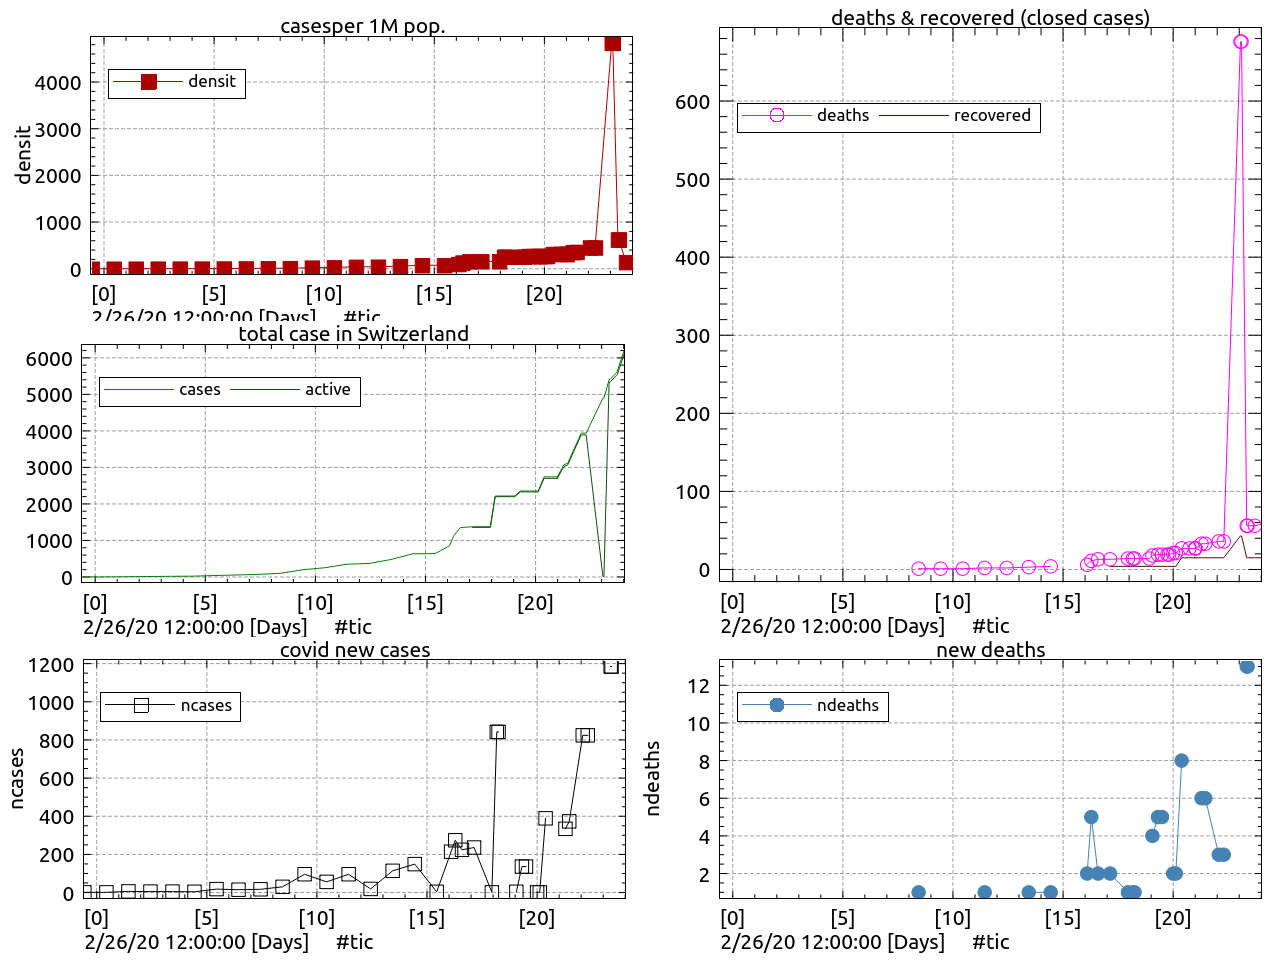
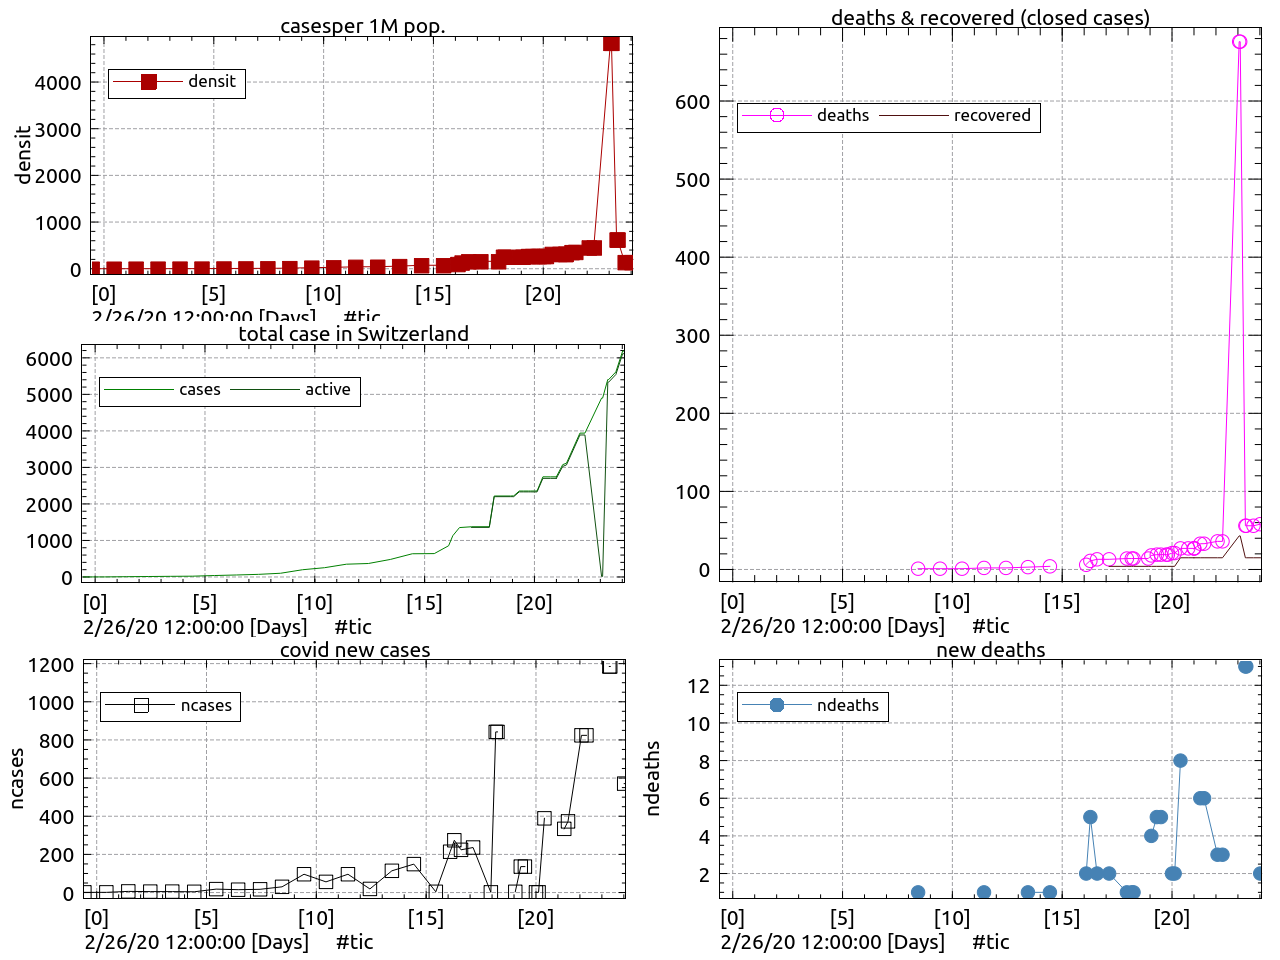
pandemy status on 03/21/20 14:52:34

diff --git a/README.md b/README.md
@@ -1,6 +1,6 @@
 # README: corona virus daily status in Switzerland ...
 
-## on 03/21/20 13:22:56 ([snapshot](https://ipfs.io/ipfs/QmY4pmA4H2abNWnWZpw9NNz1vS577dF9u4Ap2ZYt1Jh1GC))
+## on 03/21/20 14:52:34 ([snapshot](https://ipfs.io/ipfs/QmY4pmA4H2abNWnWZpw9NNz1vS577dF9u4Ap2ZYt1Jh1GC))
 
  141 715 cases per 1M pop,<br>
  6186 Total cases in Switzerland (6113 actives)
@@ -8,7 +8,7 @@
  58 deaths,
  15 recovered (resurected ?)
 
-last update : <https://ipfs.blockringtm.ml/ipfs/QmQdqpaRHXxFmCoXWeP6vw5L86pLGTYjm9z4d8x8VBqVCj/covid19.html>
+last update : <https://ipfs.blockringtm.ml/ipfs/QmQwsKfnH8khWvrsgYcAXAmwVwmRvVnH183yMXxFCJ91Xi/covid19.html>
 
 
 Every Sunday: 1:30pm 1:45pm Meditation & OM chanting ([#OMEKSAATH][OM]) CET https://www.facebook.com/events/138981234204300
@@ -37,8 +37,8 @@ sources:
   - <https://michel47.github.io/covid19>
   - <https://github.com/michel47/covid19>
   - <https://duckduckgo.com/?q=switzerland+progression+coronavirus>
-  - <https://gateway.ipfs.io/ipfs/QmZ49qk7Kug4i1umR2HFVwrHUnoX1xrdRKfG4PD4itKe98>
+  - <https://gateway.ipfs.io/ipfs/QmZJTqc58ouioEPYes9BWipPXPUS3p3fabT4asaVAMJaMM>
   - <https://gateway.ipfs.io/ipfs/QmY4pmA4H2abNWnWZpw9NNz1vS577dF9u4Ap2ZYt1Jh1GC>
-  - <https://gateway.ipfs.io/ipfs/QmQdqpaRHXxFmCoXWeP6vw5L86pLGTYjm9z4d8x8VBqVCj>
+  - <https://gateway.ipfs.io/ipfs/QmQwsKfnH8khWvrsgYcAXAmwVwmRvVnH183yMXxFCJ91Xi>
   
 

diff --git a/covid19.md b/covid19.md
@@ -7,6 +7,7 @@
  ![CH covid19](covid.png)
 
 
+- \[03/21/20]: 6113/6186cases [QmZJTqc58ouioEPYes9BWipPXPUS3p3fabT4asaVAMJaMM](https://cloudflare-ipfs.com/ipfs/QmY4pmA4H2abNWnWZpw9NNz1vS577dF9u4Ap2ZYt1Jh1GC) [data](/ipfs/QmSanADaYvsiRkvsdff5ZvP7J4qEZ8YUivWhkiGvubP73p/covid.yml),[csv](/ipfs/QmSanADaYvsiRkvsdff5ZvP7J4qEZ8YUivWhkiGvubP73p/covid.csv)
 - \[03/21/20]: 6113/6186cases [QmZ49qk7Kug4i1umR2HFVwrHUnoX1xrdRKfG4PD4itKe98](https://cloudflare-ipfs.com/ipfs/QmY4pmA4H2abNWnWZpw9NNz1vS577dF9u4Ap2ZYt1Jh1GC) [data](/ipfs/QmUrqmtZufQpZWBFJ1ub5XyoXP2FtihrqYTqheA5PsqXth/covid.yml),[csv](/ipfs/QmUrqmtZufQpZWBFJ1ub5XyoXP2FtihrqYTqheA5PsqXth/covid.csv)
 - \[03/21/20]: 5544/5615cases [QmXjbxLNFvsfxKrnwi979tMywauL7wwvmriiuEKDLn1mLy](https://cloudflare-ipfs.com/ipfs/QmY4pmA4H2abNWnWZpw9NNz1vS577dF9u4Ap2ZYt1Jh1GC) [data](/ipfs/QmTFhLQFbWdoWQrKY6fMpjjt8Tt2Dn8DFr8asMebbBXfL6/covid.yml),[csv](/ipfs/QmTFhLQFbWdoWQrKY6fMpjjt8Tt2Dn8DFr8asMebbBXfL6/covid.csv)
 - \[03/20/20]: /cases [QmUhwrMeVRT9V5dttpPa7zbToAinsNaH38BY47zoAMzR4P](https://cloudflare-ipfs.com/ipfs/QmY4pmA4H2abNWnWZpw9NNz1vS577dF9u4Ap2ZYt1Jh1GC) [data](/ipfs/QmcVT5hTUyCGKgeZfvvRzSPgXazPjWLMcG5gyH52NE7GKC/covid.yml),[csv](/ipfs/QmcVT5hTUyCGKgeZfvvRzSPgXazPjWLMcG5gyH52NE7GKC/covid.csv)

diff --git a/covid19u.md b/covid19u.md
@@ -84,3 +84,4 @@
 - \[03/20/20]: 5336/5407cases [Qme6JKSnhNQpPBzymrCQvYcsqaB79Pm1WZG8mtTWohyb77](https://cloudflare-ipfs.com/ipfs/QmY4pmA4H2abNWnWZpw9NNz1vS577dF9u4Ap2ZYt1Jh1GC) [data](/ipfs/QmV4XSjSDWYG1dhDpHMBz4Rcot6UQLuB26bSoTZYhwnyFZ/covid.yml),[csv](/ipfs/QmV4XSjSDWYG1dhDpHMBz4Rcot6UQLuB26bSoTZYhwnyFZ/covid.csv)
 - \[03/21/20]: 5544/5615cases [QmXjbxLNFvsfxKrnwi979tMywauL7wwvmriiuEKDLn1mLy](https://cloudflare-ipfs.com/ipfs/QmY4pmA4H2abNWnWZpw9NNz1vS577dF9u4Ap2ZYt1Jh1GC) [data](/ipfs/QmTFhLQFbWdoWQrKY6fMpjjt8Tt2Dn8DFr8asMebbBXfL6/covid.yml),[csv](/ipfs/QmTFhLQFbWdoWQrKY6fMpjjt8Tt2Dn8DFr8asMebbBXfL6/covid.csv)
 - \[03/21/20]: 6113/6186cases [QmZ49qk7Kug4i1umR2HFVwrHUnoX1xrdRKfG4PD4itKe98](https://cloudflare-ipfs.com/ipfs/QmY4pmA4H2abNWnWZpw9NNz1vS577dF9u4Ap2ZYt1Jh1GC) [data](/ipfs/QmUrqmtZufQpZWBFJ1ub5XyoXP2FtihrqYTqheA5PsqXth/covid.yml),[csv](/ipfs/QmUrqmtZufQpZWBFJ1ub5XyoXP2FtihrqYTqheA5PsqXth/covid.csv)
+- \[03/21/20]: 6113/6186cases [QmZJTqc58ouioEPYes9BWipPXPUS3p3fabT4asaVAMJaMM](https://cloudflare-ipfs.com/ipfs/QmY4pmA4H2abNWnWZpw9NNz1vS577dF9u4Ap2ZYt1Jh1GC) [data](/ipfs/QmSanADaYvsiRkvsdff5ZvP7J4qEZ8YUivWhkiGvubP73p/covid.yml),[csv](/ipfs/QmSanADaYvsiRkvsdff5ZvP7J4qEZ8YUivWhkiGvubP73p/covid.csv)
